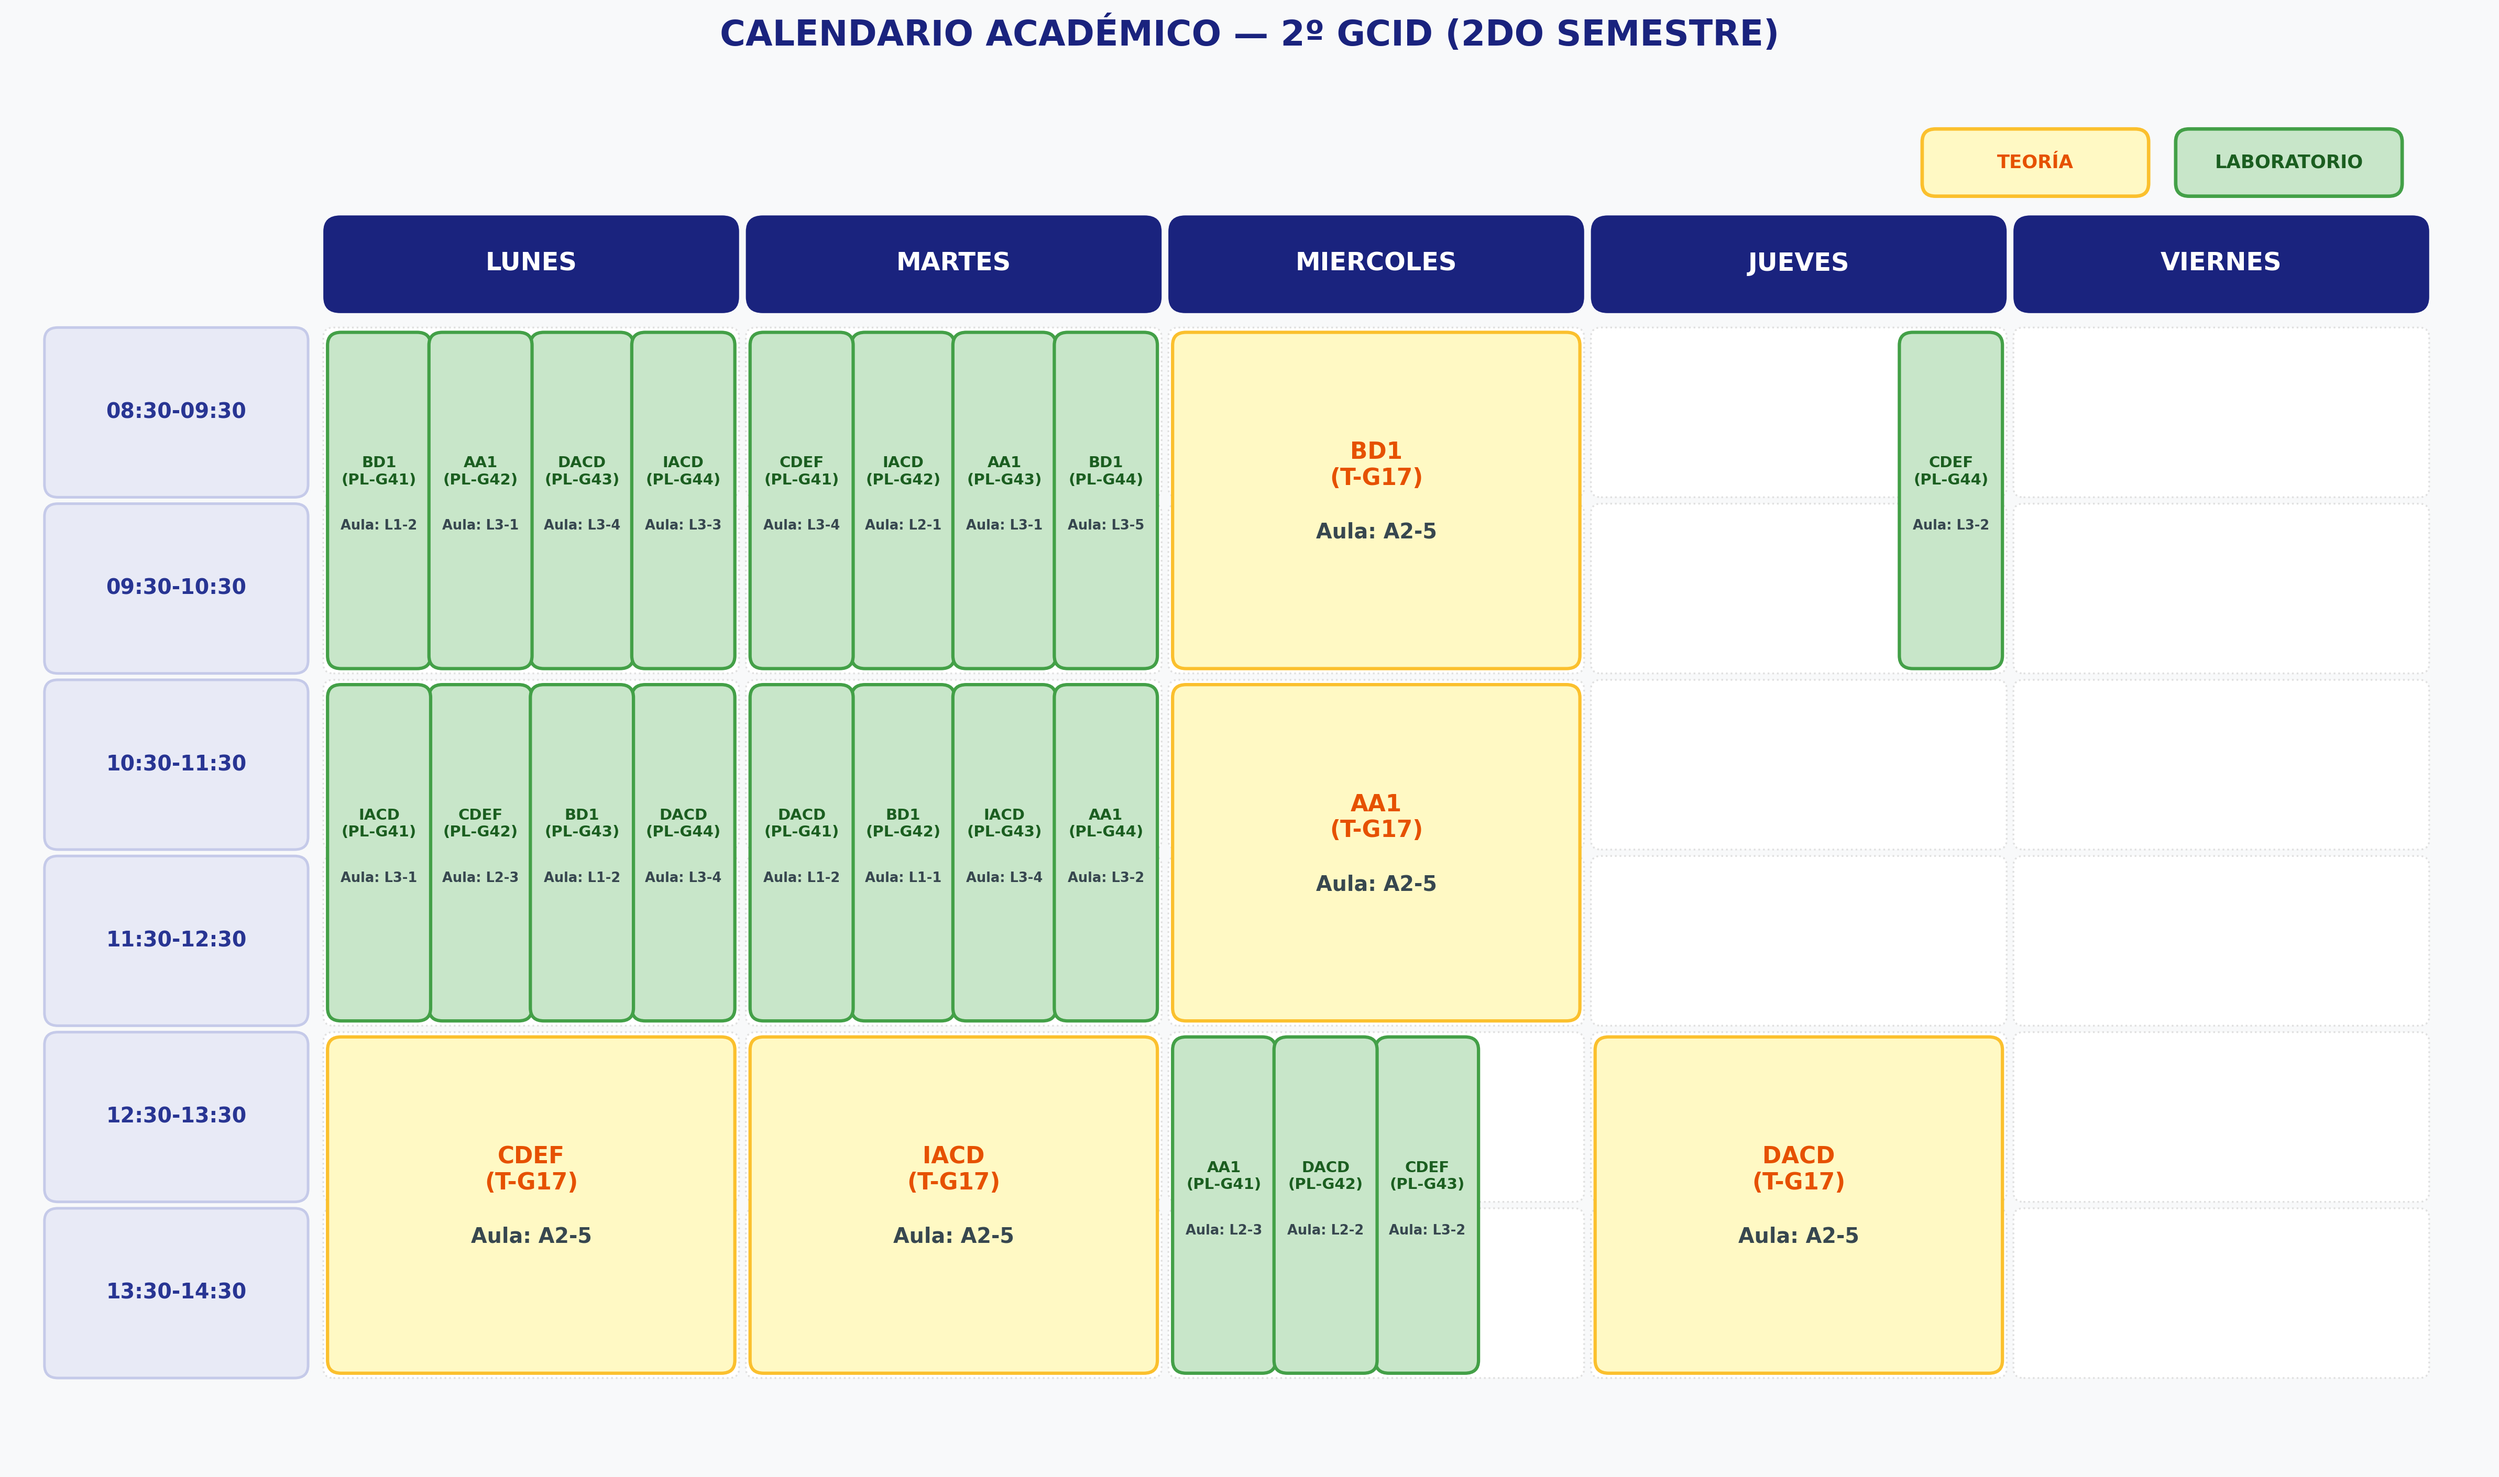
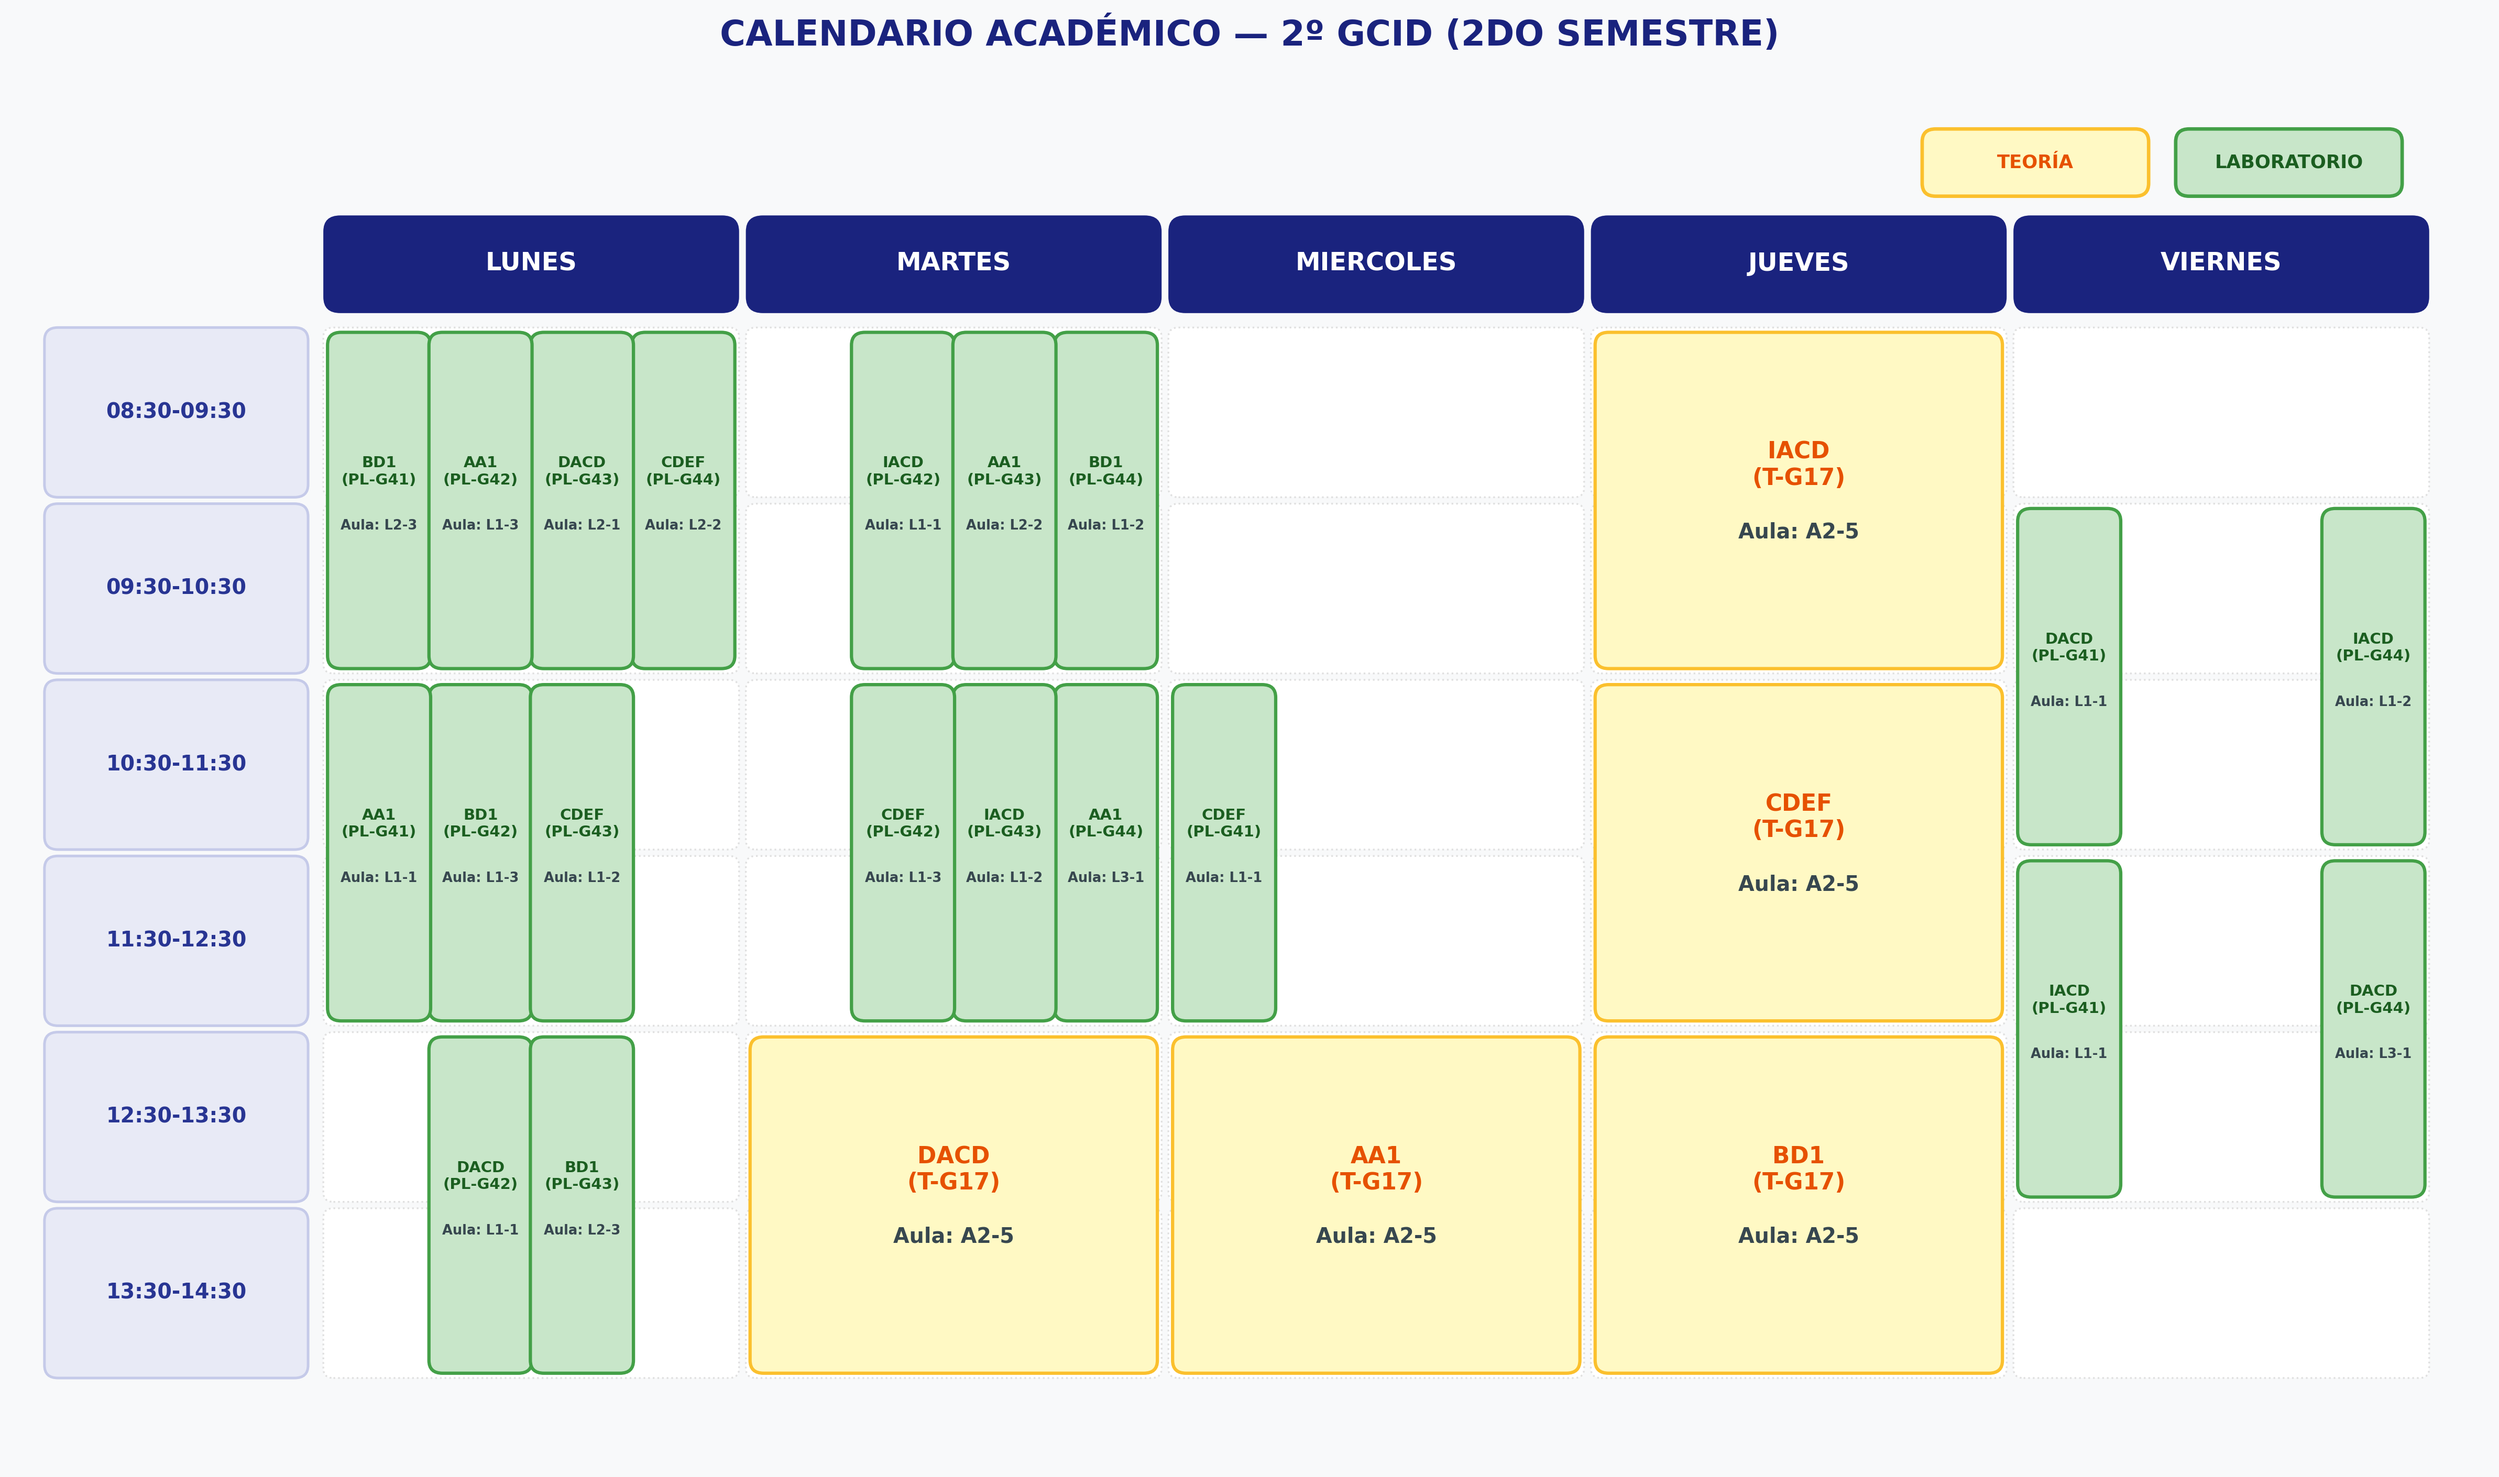
Arreglo de errores menores y revision general

diff --git a/src/restricciones.py b/src/restricciones.py
@@ -49,9 +49,12 @@ def aplicar_restriccion_estudiantes(model, df_clases, interval_vars):
 
 def aplicar_restriccion_profesores(model, df_clases, interval_vars):
     """
-    DURA: Un profesor no puede impartir dos sesiones al mismo tiempo (ni siquiera en cursos distintos).
+    DURA: Un profesor no puede impartir dos sesiones al mismo tiempo.
     """
+    df_clases["profesor"] = df_clases["profesor"].astype(str).str.strip()
     for profesor in df_clases["profesor"].dropna().unique():
+        if profesor.lower() in ["", "nan", "none"]:
+            continue
         sesiones_prof = df_clases[df_clases["profesor"] == profesor]["id_sesion"].astype(str).str.strip().tolist()
         if len(sesiones_prof) > 1:
             model.AddNoOverlap([interval_vars[s_id] for s_id in sesiones_prof])
@@ -141,36 +144,59 @@ def aplicar_restriccion_aulas(model, df_clases, df_aulas, start_vars, end_vars):
 def aplicar_restriccion_sin_huecos(model, df_clases, start_vars, end_vars, horas_por_dia=6):
     """
     DURA: Evita horas libres intermedias para un mismo grupo dentro de su curso.
+    Funciona independientemente de si un grupo tiene 2, 3, 4 o más clases en el mismo día.
     """
     for curso in df_clases["curso"].unique():
         df_curso = df_clases[df_clases["curso"] == curso]
         for grp in df_curso["grupo"].unique():
-            sesiones_grp = df_curso[df_curso["grupo"] == grp]["id_sesion"].astype(str).str.strip().tolist()
-
-            if len(sesiones_grp) <= 1:
+            df_grp = df_curso[df_curso["grupo"] == grp]
+            if len(df_grp) <= 1:
                 continue
 
-            for i in range(len(sesiones_grp)):
-                for j in range(i + 1, len(sesiones_grp)):
-                    id1, id2 = sesiones_grp[i], sesiones_grp[j]
+            sesiones_info = []
+            for _, row in df_grp.iterrows():
+                s_id = str(row["id_sesion"]).strip()
+                dur = int(row["duracion_horas"])
+                dia_var = model.NewIntVar(0, 4, f"dia_grp_{curso}_{grp}_{s_id}")
+                model.AddDivisionEquality(dia_var, start_vars[s_id], horas_por_dia)
+                sesiones_info.append((s_id, dur, dia_var))
 
-                    d1 = model.NewIntVar(0, 4, f"dia_{id1}_{id2}")
-                    d2 = model.NewIntVar(0, 4, f"dia2_{id1}_{id2}")
-                    model.AddDivisionEquality(d1, start_vars[id1], horas_por_dia)
-                    model.AddDivisionEquality(d2, start_vars[id2], horas_por_dia)
+            for d in range(5):
+                inicio_dia = d * horas_por_dia
+                fin_dia = (d + 1) * horas_por_dia
 
-                    mismo_dia = model.NewBoolVar(f"same_day_{id1}_{id2}")
-                    model.Add(d1 == d2).OnlyEnforceIf(mismo_dia)
-                    model.Add(d1 != d2).OnlyEnforceIf(mismo_dia.Not())
+                en_dia_vars = []
+                starts_dia = []
+                ends_dia = []
 
-                    c1 = model.NewBoolVar(f"c1_{id1}_{id2}")
-                    c2 = model.NewBoolVar(f"c2_{id1}_{id2}")
-                    model.Add(start_vars[id2] == end_vars[id1]).OnlyEnforceIf(c1)
-                    model.Add(start_vars[id2] != end_vars[id1]).OnlyEnforceIf(c1.Not())
-                    model.Add(start_vars[id1] == end_vars[id2]).OnlyEnforceIf(c2)
-                    model.Add(start_vars[id1] != end_vars[id2]).OnlyEnforceIf(c2.Not())
+                for s_id, dur, dia_var in sesiones_info:
+                    en_dia = model.NewBoolVar(f"en_dia_{curso}_{grp}_{s_id}_{d}")
+                    model.Add(dia_var == d).OnlyEnforceIf(en_dia)
+                    model.Add(dia_var != d).OnlyEnforceIf(en_dia.Not())
+                    en_dia_vars.append((en_dia, dur))
 
-                    model.AddBoolOr([c1, c2]).OnlyEnforceIf(mismo_dia)
+                    s_d = model.NewIntVar(inicio_dia, fin_dia, f"sd_{curso}_{grp}_{s_id}_{d}")
+                    model.Add(s_d == start_vars[s_id]).OnlyEnforceIf(en_dia)
+                    model.Add(s_d == fin_dia).OnlyEnforceIf(en_dia.Not())
+                    starts_dia.append(s_d)
+
+                    e_d = model.NewIntVar(inicio_dia, fin_dia, f"ed_{curso}_{grp}_{s_id}_{d}")
+                    model.Add(e_d == end_vars[s_id]).OnlyEnforceIf(en_dia)
+                    model.Add(e_d == inicio_dia).OnlyEnforceIf(en_dia.Not())
+                    ends_dia.append(e_d)
+
+                horas_en_dia = sum(en_dia * dur for en_dia, dur in en_dia_vars)
+                hay_clase = model.NewBoolVar(f"hay_clase_{curso}_{grp}_{d}")
+                model.Add(horas_en_dia >= 1).OnlyEnforceIf(hay_clase)
+                model.Add(horas_en_dia == 0).OnlyEnforceIf(hay_clase.Not())
+
+                min_ini = model.NewIntVar(inicio_dia, fin_dia, f"min_ini_{curso}_{grp}_{d}")
+                max_fin = model.NewIntVar(inicio_dia, fin_dia, f"max_fin_{curso}_{grp}_{d}")
+                model.AddMinEquality(min_ini, starts_dia)
+                model.AddMaxEquality(max_fin, ends_dia)
+
+                # Sin huecos: la amplitud total del bloque diario coincide con las horas lectivas
+                model.Add(max_fin - min_ini == horas_en_dia).OnlyEnforceIf(hay_clase)
 
 
 def aplicar_restriccion_dias_libres_practicas(model, df_clases, start_vars):
